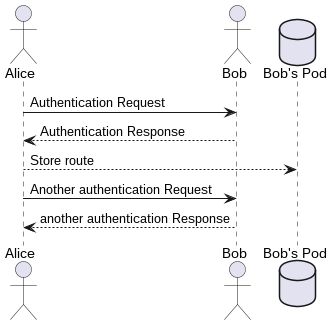
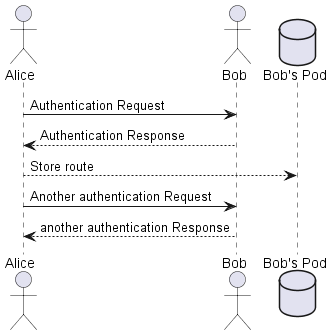
Updates

diff --git a/index.html b/index.html
@@ -1213,7 +1213,7 @@ building block instances depicted in this diagram.&gt;</em></p>
 </div>
 <div class="imageblock">
 <div class="content">
-<img src="./images/Sequence%20diagram.png" alt="Sequence diagram" width="332" height="325">
+<img src="./images/Sequence%20diagram.png" alt="Sequence diagram" width="332" height="335">
 </div>
 </div>
 </div>
@@ -1740,7 +1740,7 @@ Created by Dr. Peter Hruschka &amp; Dr. Gernot Starke.</p>
 </div>
 <div id="footer">
 <div id="footer-text">
-Last updated 2023-01-28 12:07:05 +0100
+Last updated 2023-01-30 17:16:52 +0100
 </div>
 </div>
 </body>
